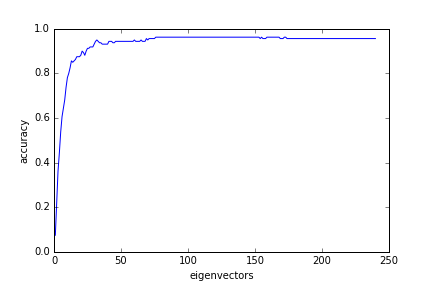
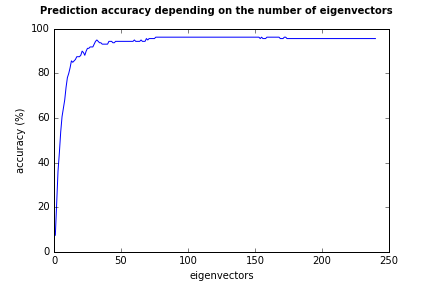
Bold title for plots.

diff --git a/facrec_kernel.py b/facrec_kernel.py
@@ -151,13 +151,13 @@ if __name__ == "__main__":
     for i in range(1, eigvect_k.shape[1]+1):
         aux = predict_all(trainproj[:, 0:i], testp[:, 0:i], "orl_faces", subjects, samples, bsamples)
         g[0].append(i)
-        g[1].append(aux)
+        g[1].append(aux*100)
         print("using {0} eigenvectors: {1}".format(i, aux))
         
     plt.plot(g[0],g[1])
     #plt.show()
-    plt.title('Prediction accuracy depending on the number of eigenvectors')
-    plt.ylabel('accuracy')
+    plt.suptitle('Prediction accuracy depending on the number of eigenvectors',fontweight='bold')
+    plt.ylabel('accuracy (%)')
     plt.xlabel('eigenvectors')
     plt.savefig('plots/orl_b' + str(bsamples) + '_s' + str(subjects) + '.png')
 
